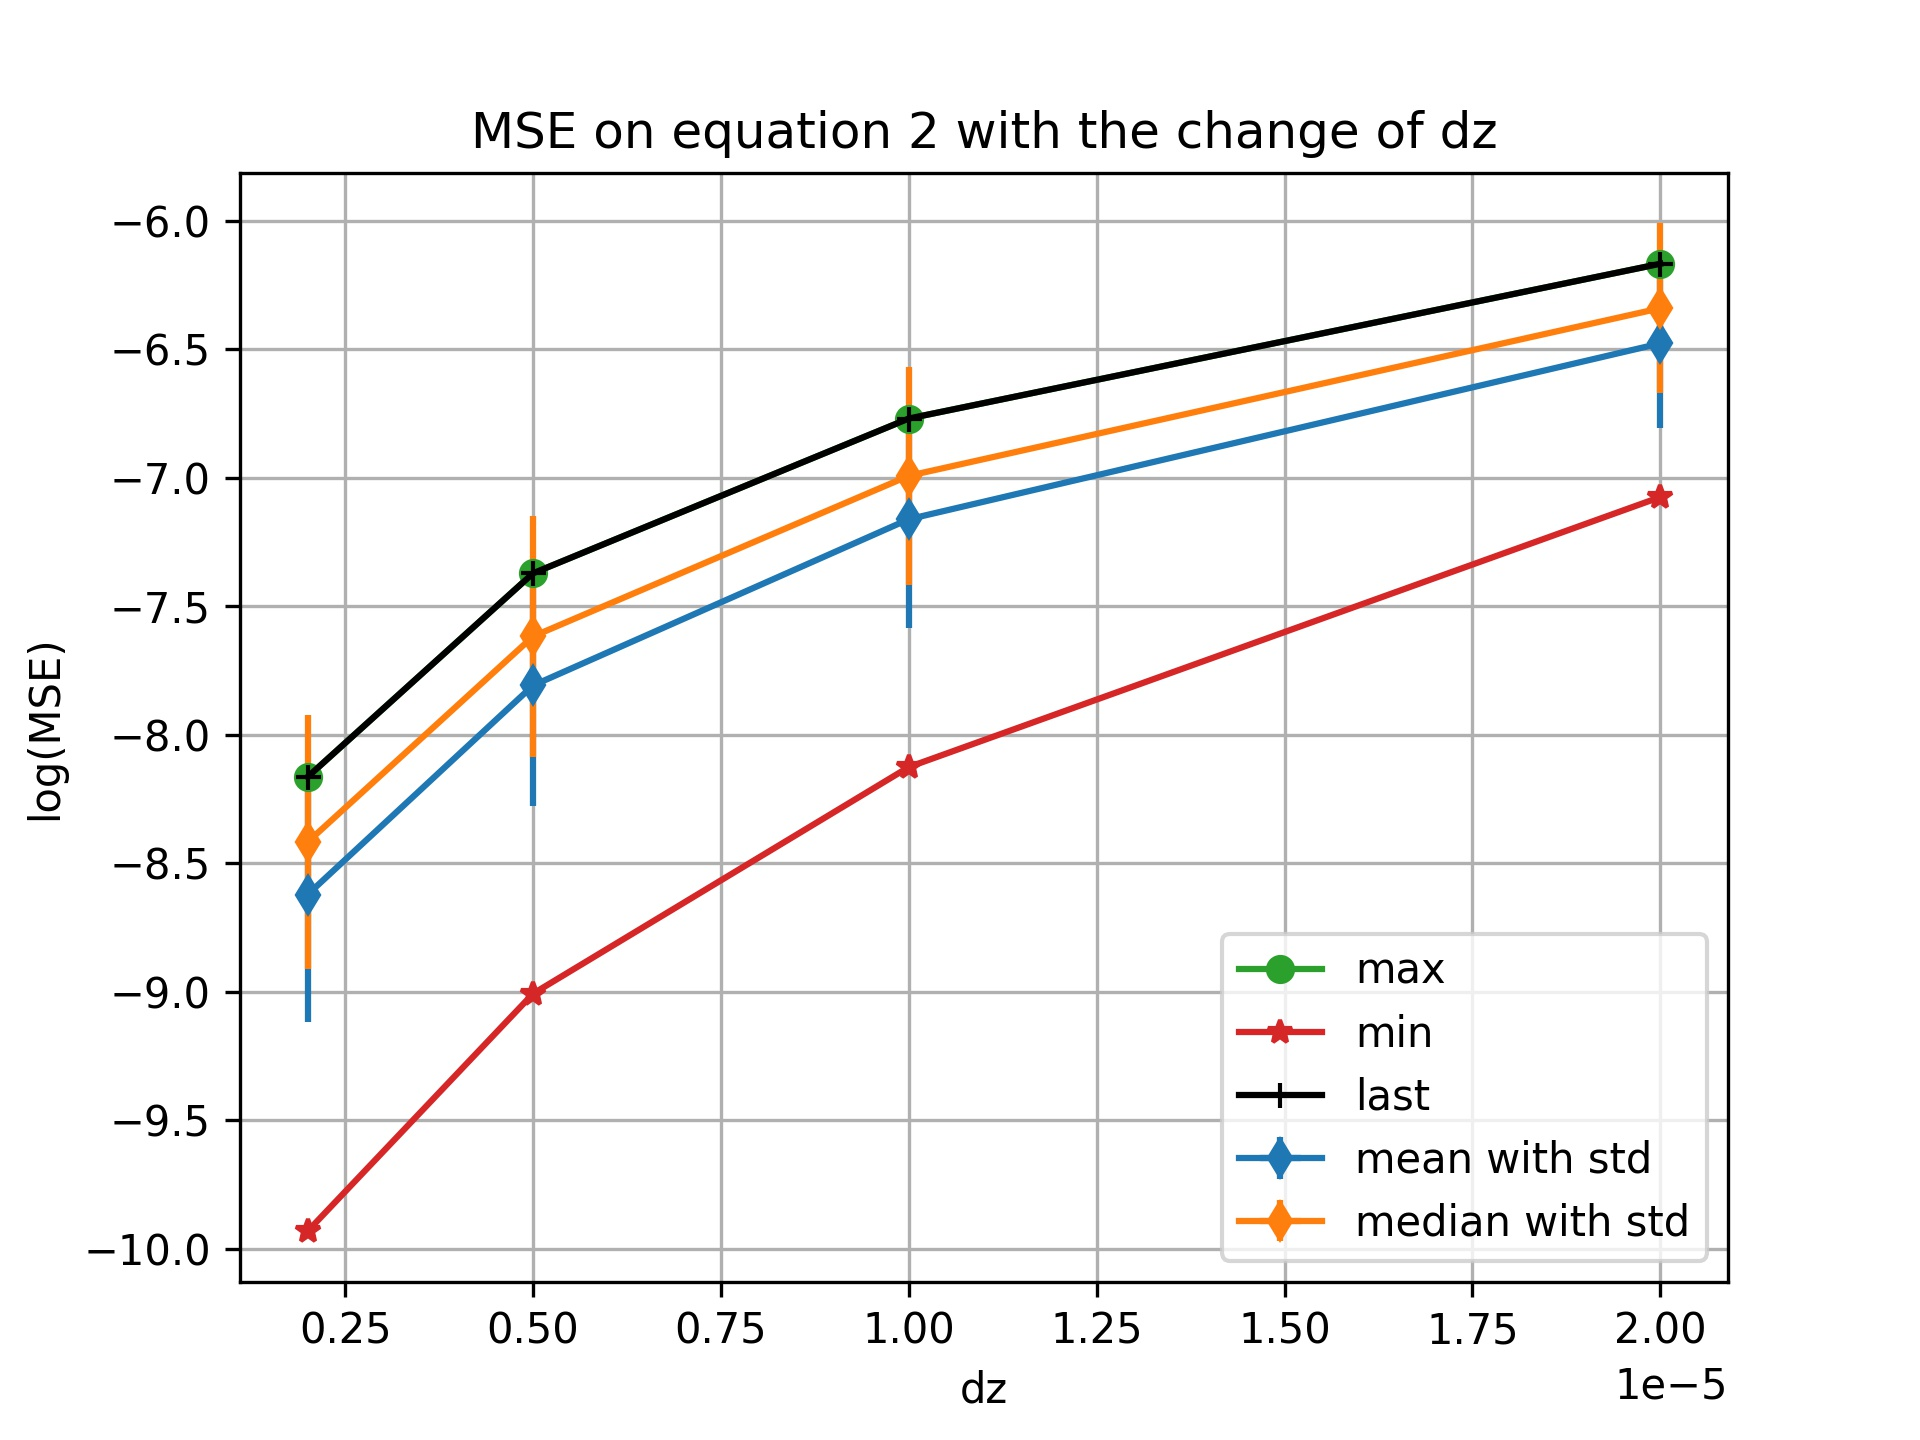
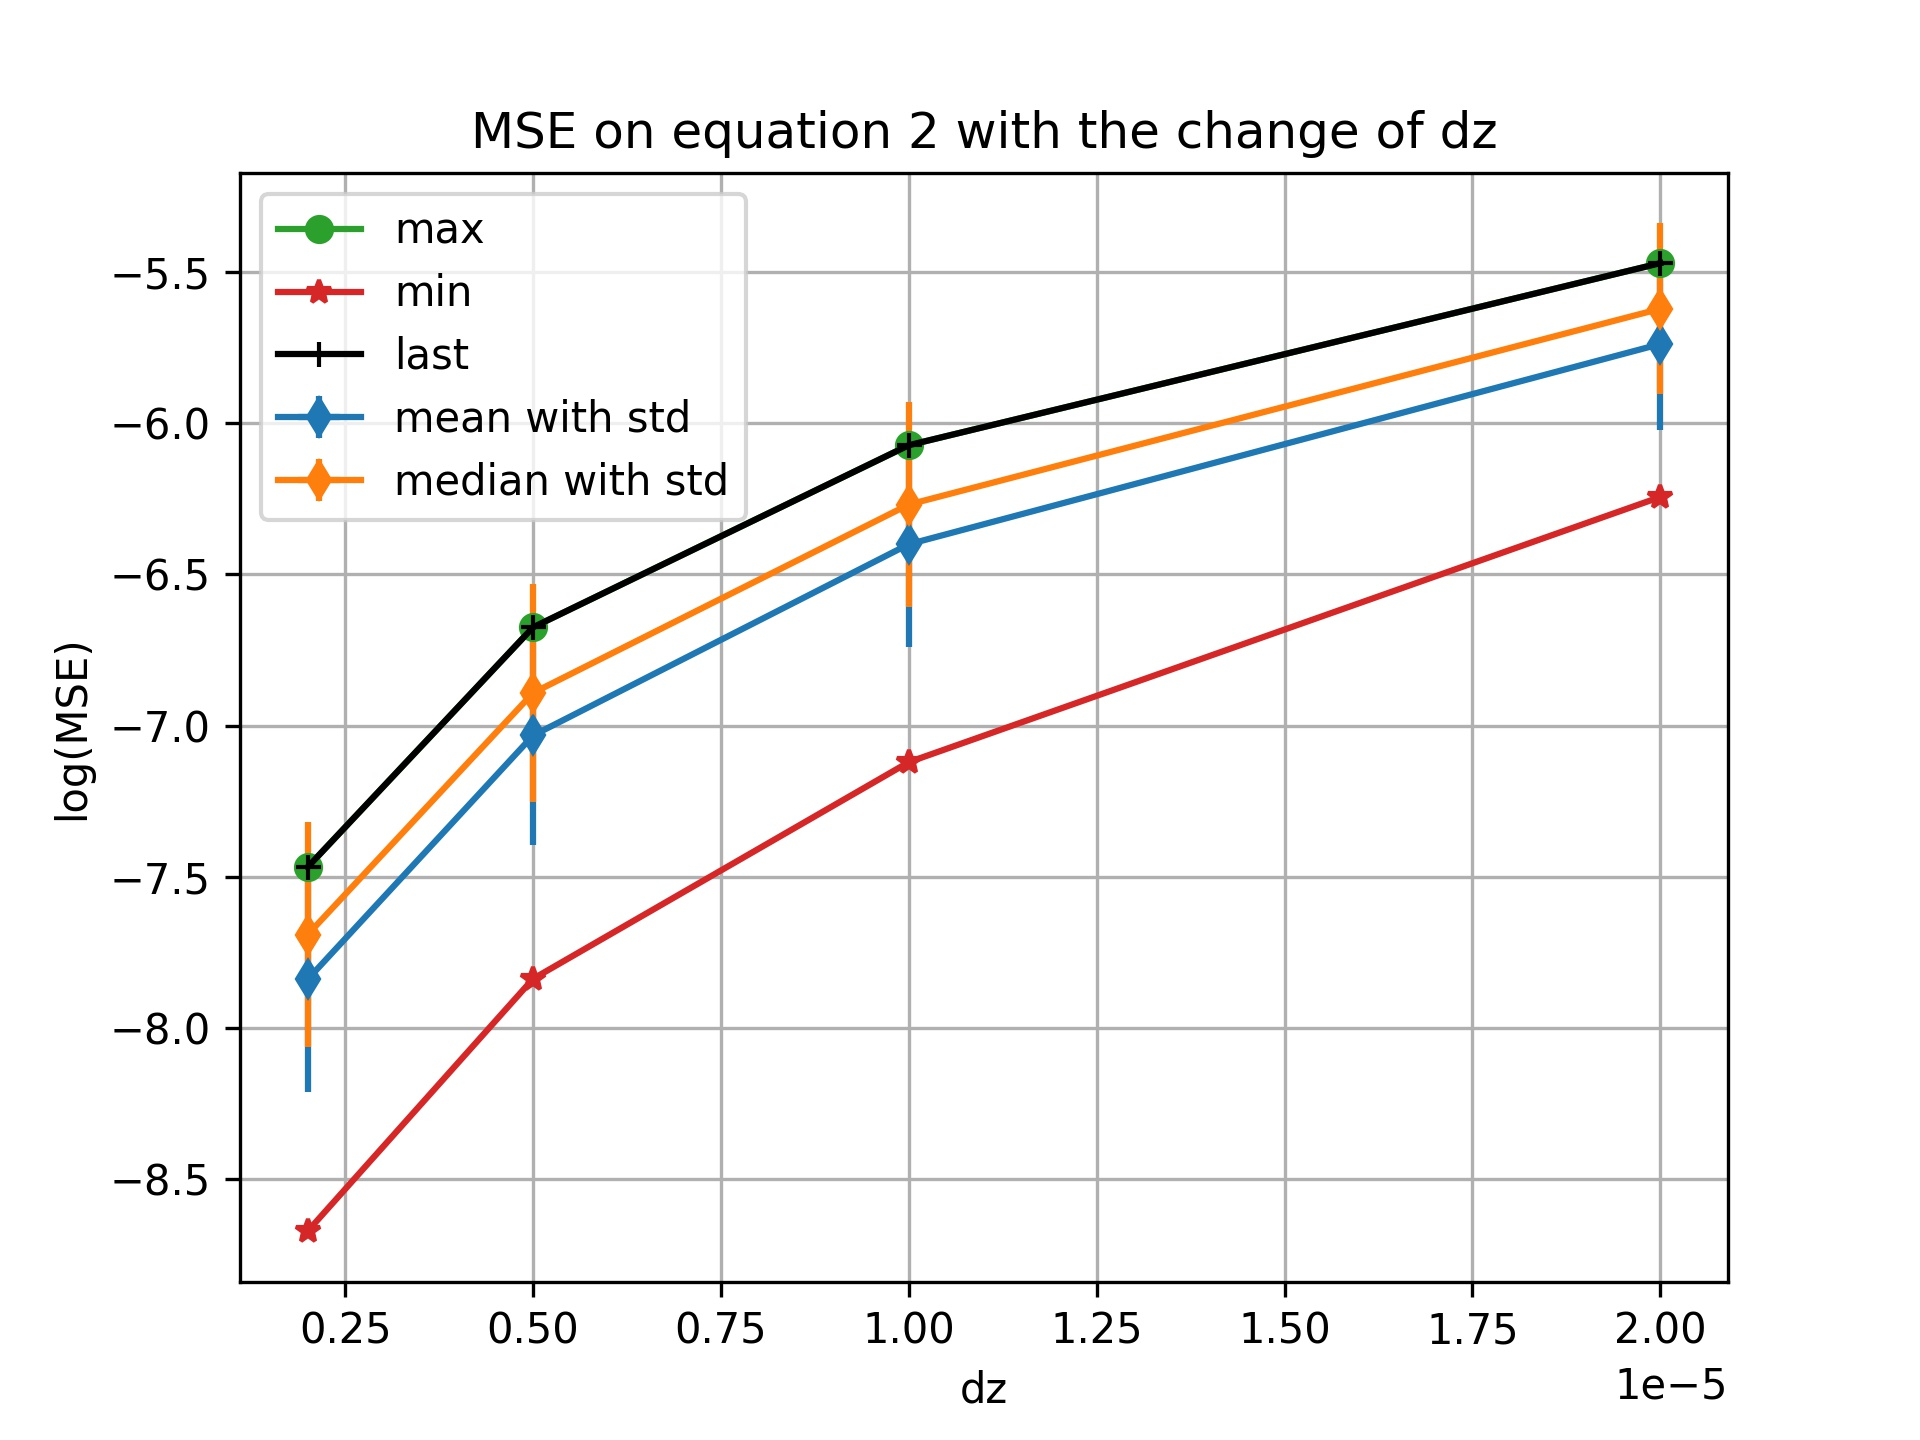
bit waist updated

diff --git a/SPDC_solver/error_analysis/big_waist/calc_err.py b/SPDC_solver/error_analysis/big_waist/calc_err.py
@@ -16,8 +16,10 @@ dxdy = [1e-6,2e-6,3e-6,4e-6,5e-6,6e-6]
 dz = [2e-6,5e-6,10e-6,20e-6]
 maxXY = [80e-6,120e-6,160e-6,200e-6,240e-6]
 maxZ = [1e-4,2e-4,3e-4,4e-4,5e-4]
-config = Config(pump_waist=120e-6)
-
+config = Config(pump_waist=80e-6)
+# A = SPDC_solver(config=config,draw_sol=True,return_err=True)
+# A.solve()
+# exit()
 errors = {}
 
 
